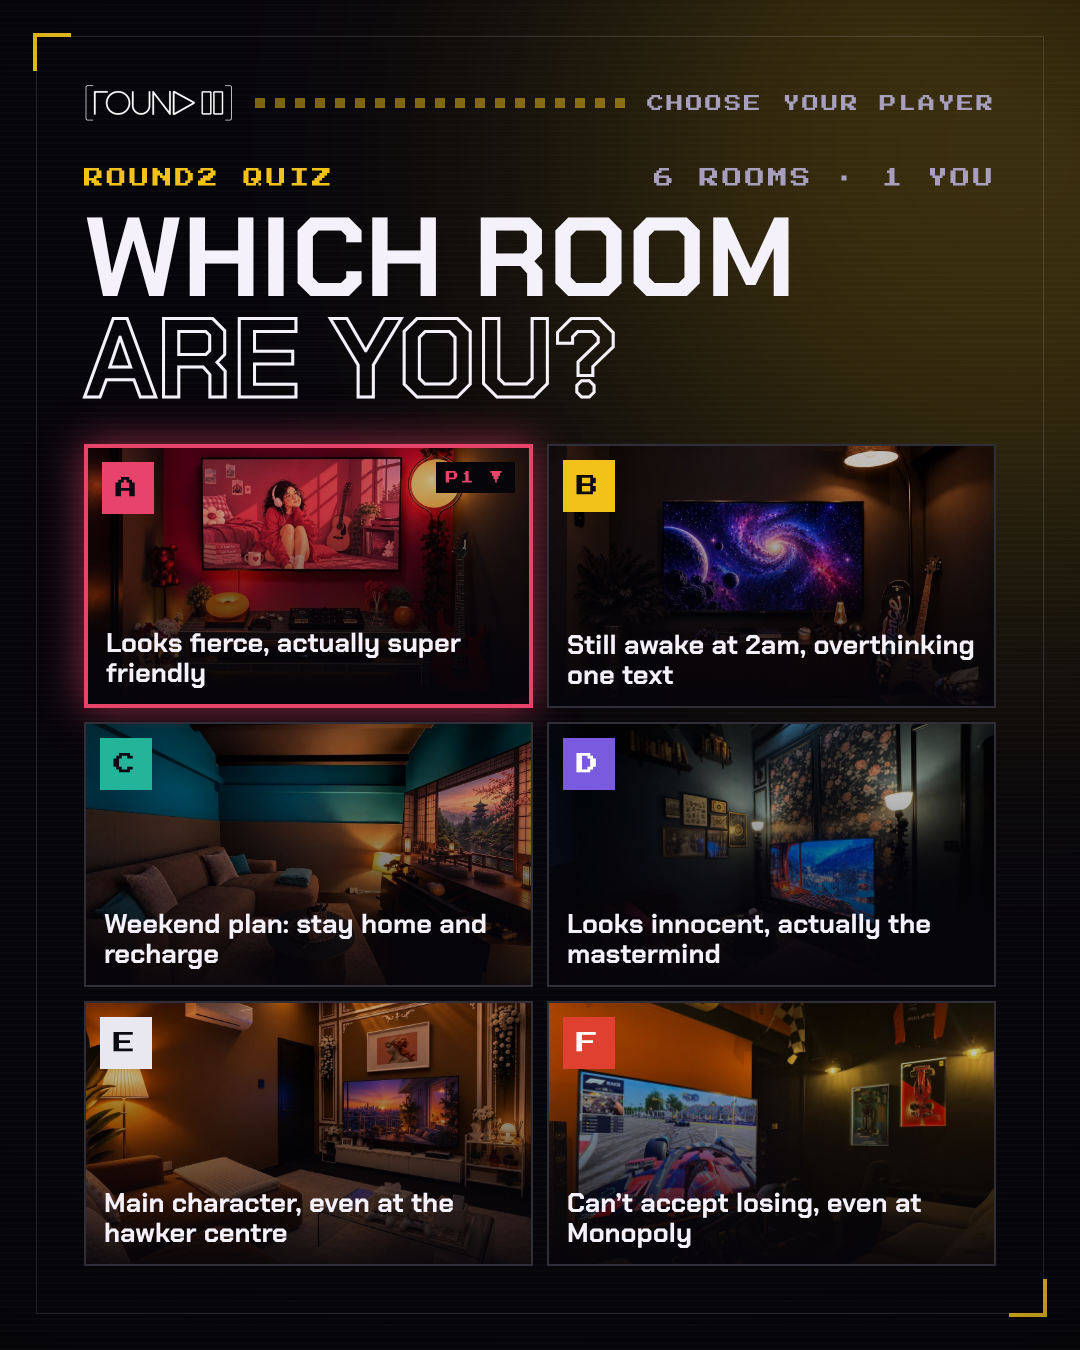
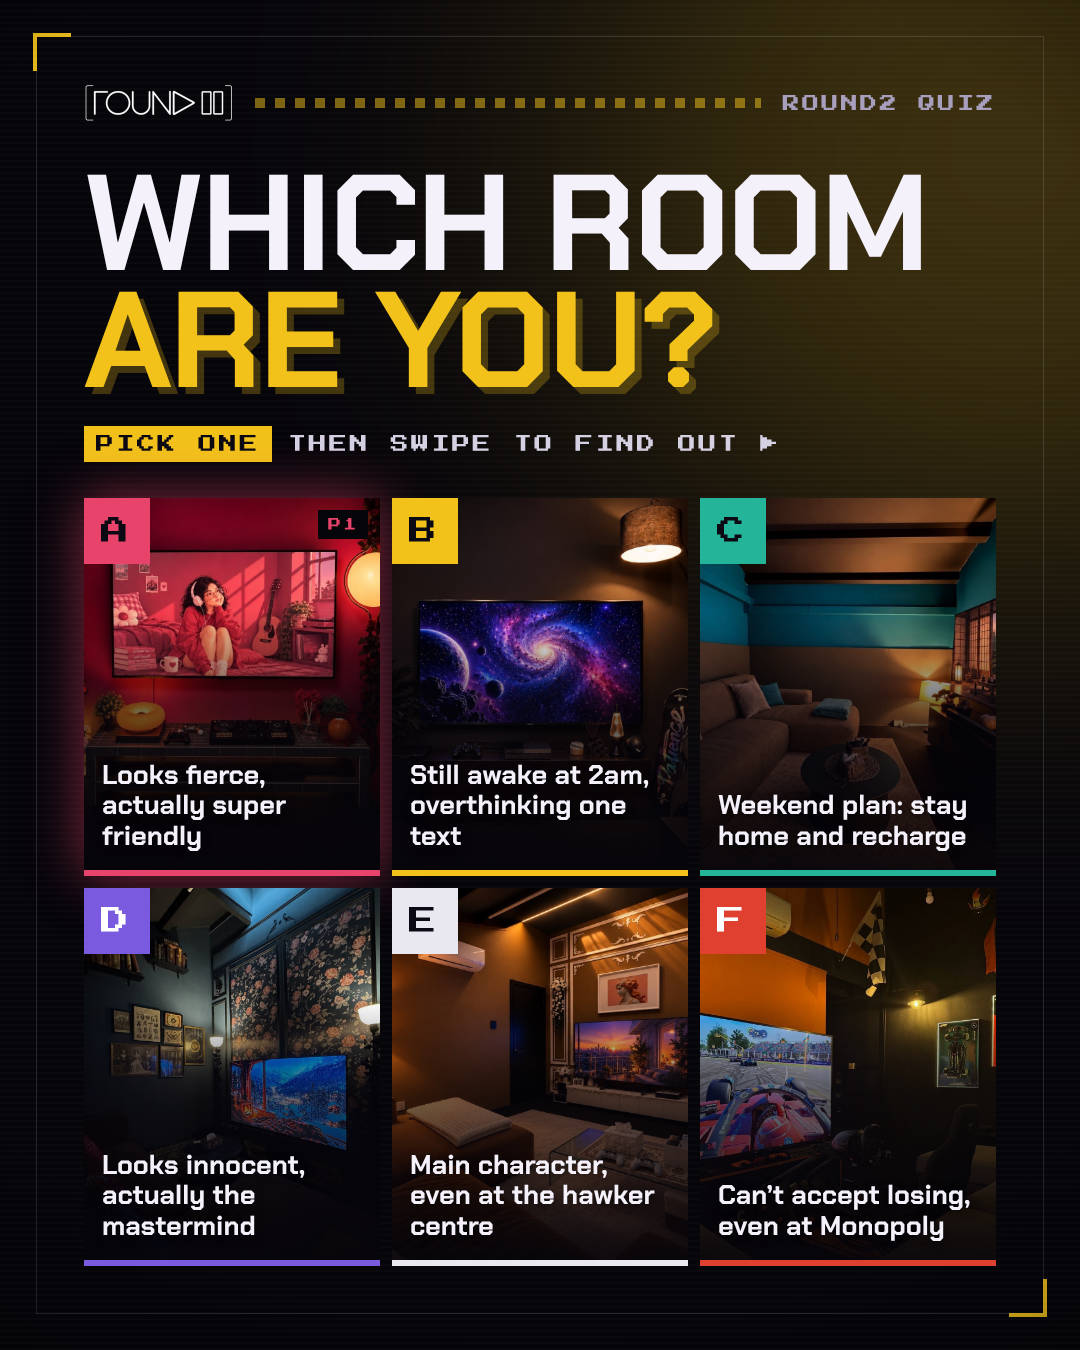
Room quiz: bolder cover – big two-tone title, 3x2 portrait photo tiles
Claude-Session: https://claude.ai/code/session_01PDkwSCLDYKchcH27nujJvW

diff --git a/marketing/ig-room-quiz/index.html b/marketing/ig-room-quiz/index.html
@@ -35,20 +35,18 @@ body.render .deck{padding:0;gap:0}
 body.render .blink{animation:none}
 
 /* cover – character select */
-.cv-k{margin-top:46px;display:flex;justify-content:space-between;font-size:20px;color:var(--accent)}
-.cv-k span:last-child{color:var(--mute)}
-.cv-t{margin:20px 0 0;font-weight:700;font-size:112px;line-height:.9;text-transform:uppercase}
-.cv-t span{color:transparent;-webkit-text-stroke:3px var(--ink)}
-.grid{margin-top:34px;flex:1;display:grid;grid-template-columns:1fr 1fr;grid-template-rows:repeat(3,1fr);gap:14px}
-.tile{position:relative;overflow:hidden;border:2px solid rgba(244,241,251,.16);background:#0b0914}
-.tile img{position:absolute;inset:0;width:100%;height:100%;object-fit:cover;filter:saturate(1.1) brightness(.8)}
-.tile::after{content:"";position:absolute;inset:0;background:linear-gradient(180deg,rgba(6,5,10,.05) 25%,rgba(6,5,10,.92) 100%)}
-.tile .k{position:absolute;left:14px;top:14px;z-index:2;width:52px;height:52px;display:flex;align-items:center;justify-content:center;font-size:22px;background:var(--oc);color:var(--ok)}
-.tile .q{position:absolute;left:18px;right:18px;bottom:16px;z-index:2;font-size:27px;font-weight:700;line-height:1.12}
-.tile.on{border:4px solid var(--oc);box-shadow:0 0 40px color-mix(in srgb,var(--oc) 60%,transparent)}
-.tile .p1{position:absolute;right:14px;top:14px;z-index:2;padding:9px 10px;font-size:13px;background:#06050a;color:var(--oc)}
-.cv-f{margin-top:22px;display:flex;justify-content:space-between;font-size:16px;color:var(--mute)}
-.cv-f b{font-weight:400;color:var(--accent)}
+.cv-t{margin:44px 0 0;font-weight:700;font-size:136px;line-height:.86;text-transform:uppercase;letter-spacing:-.015em}
+.cv-t em{font-style:normal;color:var(--accent);text-shadow:7px 7px 0 rgba(242,194,27,.25)}
+.cv-s{margin-top:26px;display:flex;align-items:center;gap:16px;font-size:18px;color:var(--soft)}
+.cv-s b{font-weight:400;padding:9px 12px;background:var(--accent);color:#0b0914}
+.grid{margin-top:36px;flex:1;display:grid;grid-template-columns:repeat(3,1fr);grid-template-rows:1fr 1fr;gap:12px}
+.tile{position:relative;overflow:hidden;background:#0b0914;border-bottom:6px solid var(--oc)}
+.tile img{position:absolute;inset:0;width:100%;height:100%;object-fit:cover}
+.tile::after{content:"";position:absolute;inset:0;background:linear-gradient(180deg,rgba(6,5,10,0) 30%,rgba(6,5,10,.55) 55%,rgba(6,5,10,.95) 100%)}
+.tile .k{position:absolute;left:0;top:0;z-index:2;width:66px;height:66px;display:flex;align-items:center;justify-content:center;font-size:28px;background:var(--oc);color:var(--ok)}
+.tile .q{position:absolute;left:18px;right:16px;bottom:18px;z-index:2;font-size:27px;font-weight:700;line-height:1.14;text-shadow:0 2px 10px rgba(0,0,0,.6)}
+.tile.on{outline:5px solid var(--oc);outline-offset:-5px;box-shadow:0 0 50px color-mix(in srgb,var(--oc) 55%,transparent)}
+.tile .p1{position:absolute;right:12px;top:12px;z-index:2;padding:8px 10px;font-size:13px;background:#06050a;color:var(--oc)}
 /* room card – character profile */
 .hero{position:absolute;left:0;right:0;top:0;height:880px;overflow:hidden;z-index:1;background:#0b0914;
   -webkit-mask-image:linear-gradient(180deg,#000 62%,transparent 100%);mask-image:linear-gradient(180deg,#000 62%,transparent 100%)}
@@ -172,11 +170,11 @@ function cover(){
   const tiles = QUIZ.map((q, i) => { const r = ROOMS[q.room];
     return `<div class="tile${i===0?' on':''}" style="--oc:${r.c};--ok:${r.ink}">
       <img src="photos/${q.room.toLowerCase()}.jpg" alt="" onerror="this.remove()">
-      <span class="k px">${q.k}</span>${i===0?'<span class="p1 px blink">P1 ▼</span>':''}
+      <span class="k px">${q.k}</span>${i===0?'<span class="p1 px blink">P1</span>':''}
       <span class="q">${esc(q.night)}</span></div>`; }).join('');
-  return frame('#F2C21B','#0b0914', `${topBar('Choose your player')}
-    <div class="cv-k px"><span>Round2 quiz</span><span>6 rooms · 1 you</span></div>
-    <h1 class="cv-t">Which room<br><span>are you?</span></h1>
+  return frame('#F2C21B','#0b0914', `${topBar('Round2 quiz')}
+    <h1 class="cv-t">Which room<br><em>are you?</em></h1>
+    <div class="cv-s px"><b>Pick one</b><span>then swipe to find out ▶</span></div>
     <div class="grid">${tiles}</div>`, 'right:-380px;top:-300px');
 }
 function card(q, i){
